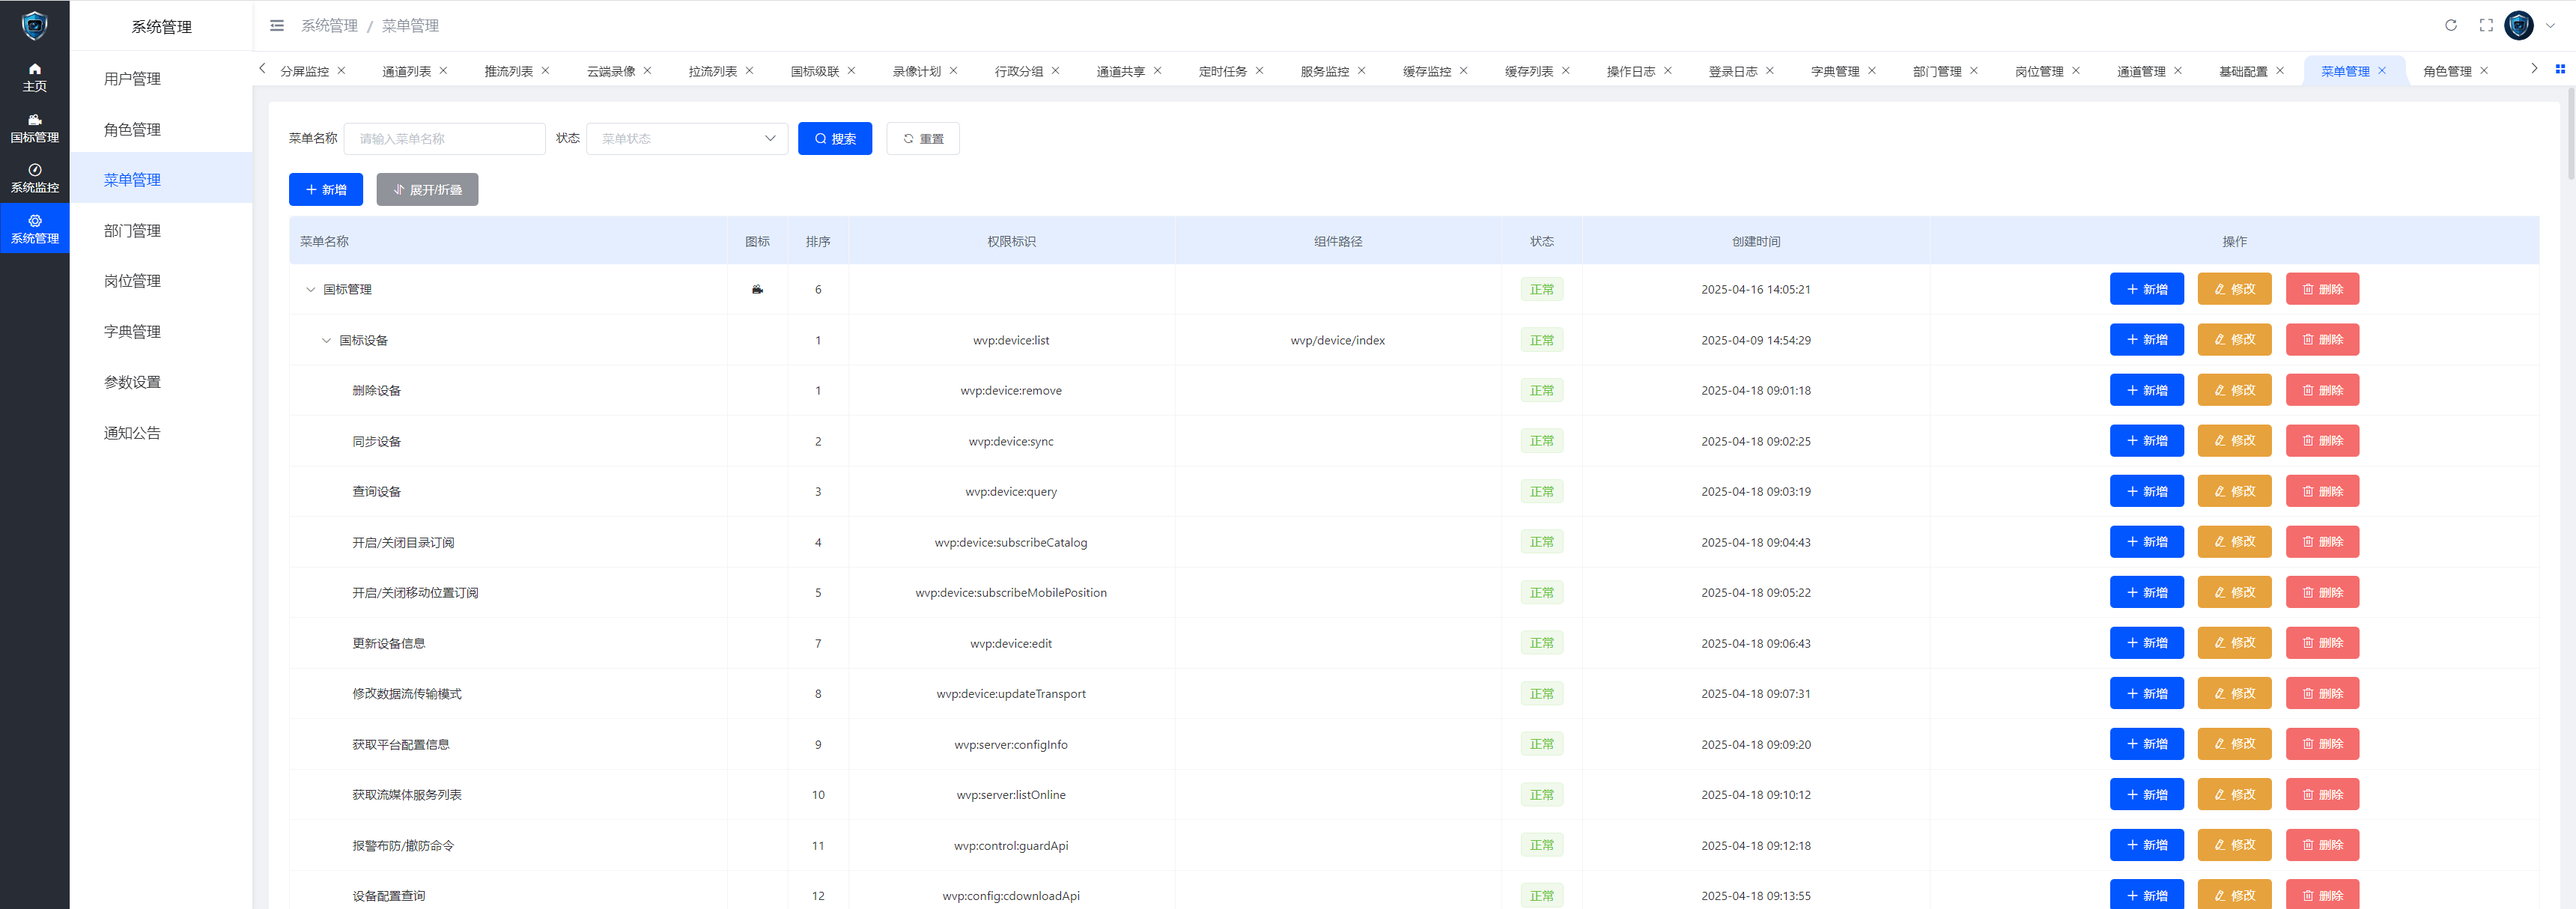
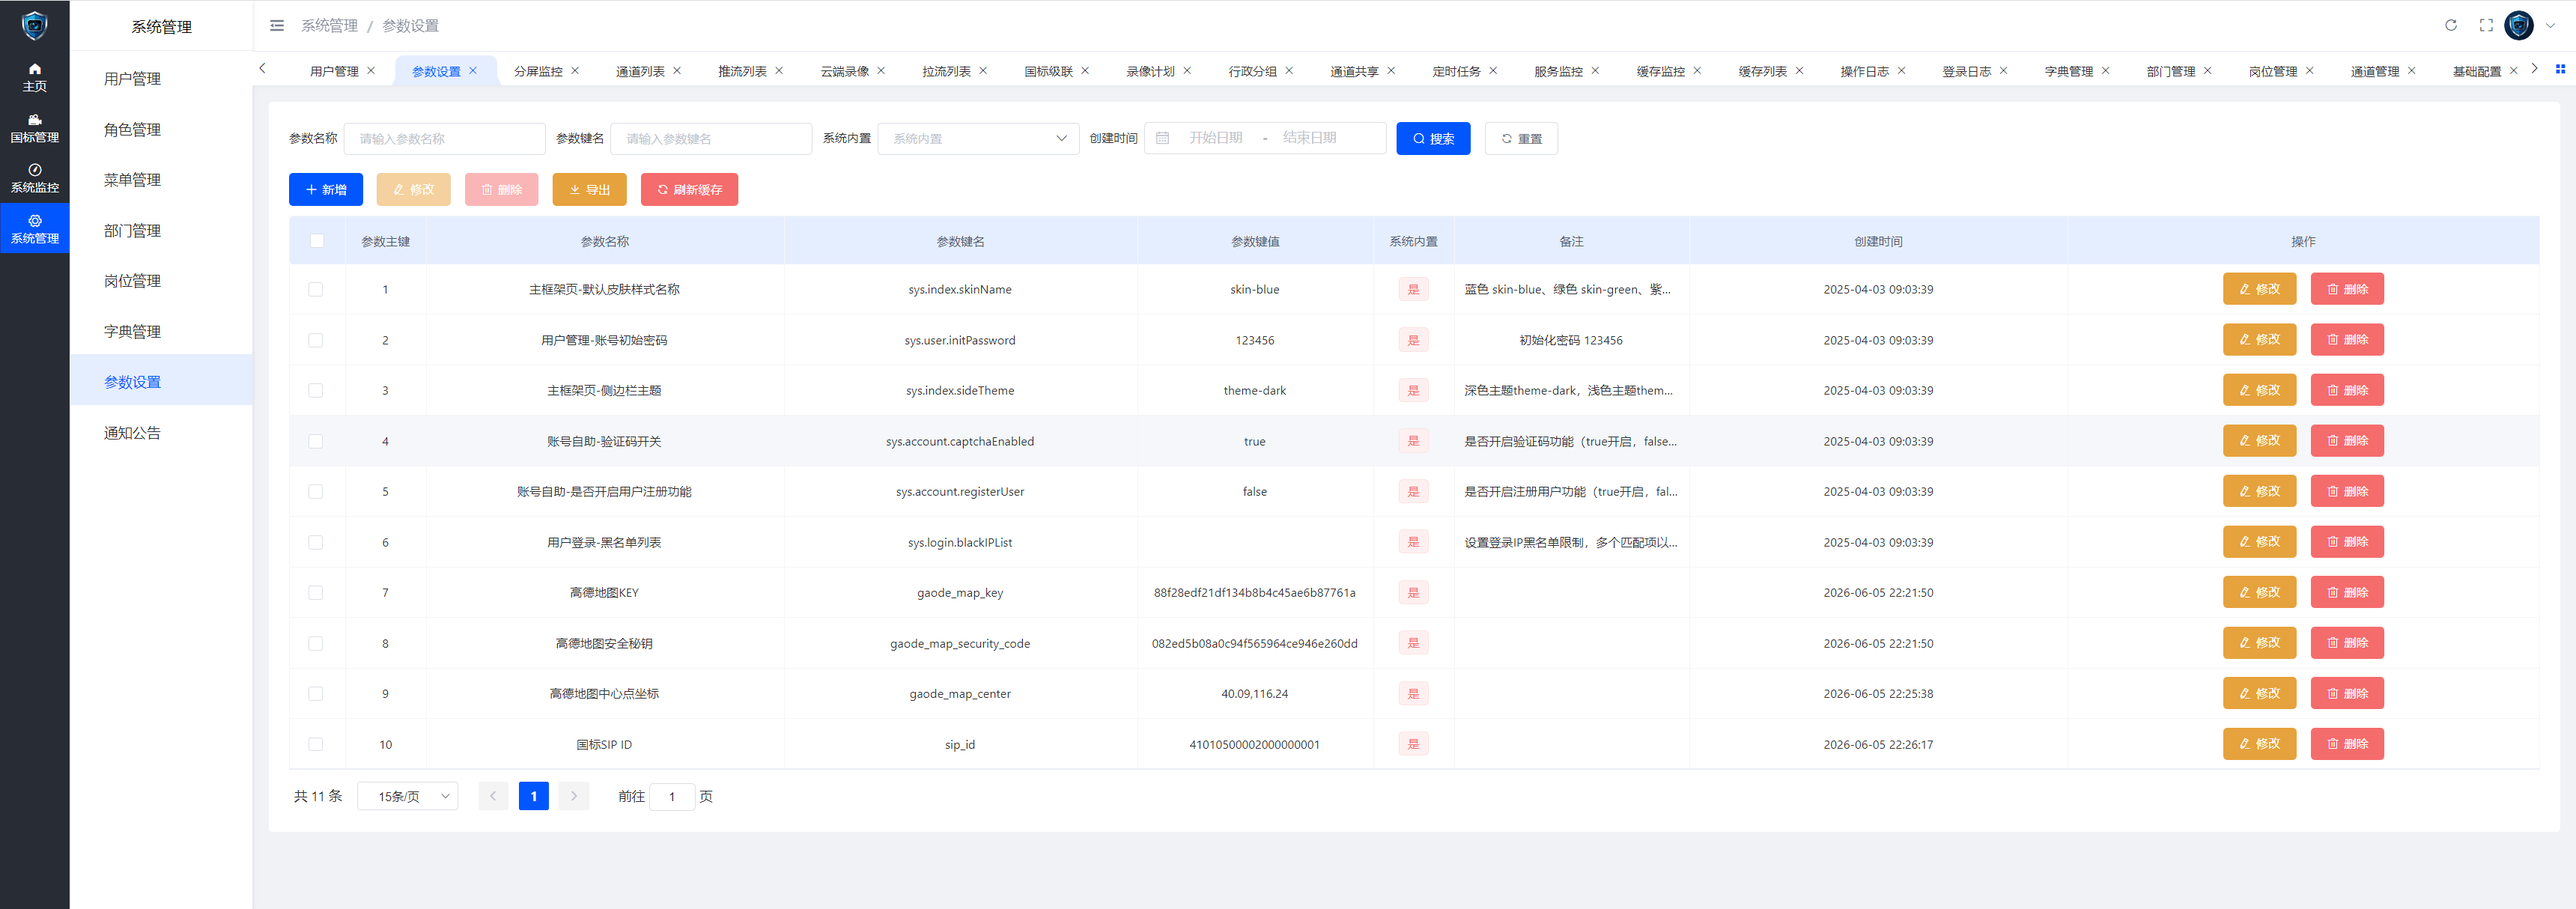
docs: 更新README文档和配套截图
更新了README中的演示截图部分，替换旧的mvp11.png截图为pro版截图，删除冗余的旧表格行，新增pro版功能标题行

diff --git a/README.md b/README.md
@@ -111,9 +111,12 @@ dahuang-wvp是基于ruoyi-vue和wvp框架的全部开源的GB/T 28181-2016视频
         <td><img src="images/mvp10.png"/></td>
     </tr>
     <tr>
-        <td><img src="images/mvp11.png"/></td>
-        <td><img src="images/mvp12.png"/></td>
-    </tr>    
+        <td colspan="2" align="center">Pro版功能</td>        
+    </tr>
+    <tr>
+        <td><img src="images/mvp-pro11.png"/></td>
+        <td><img src="images/mvp-pro12.png"/></td>
+    </tr>
 </table>
 
 
